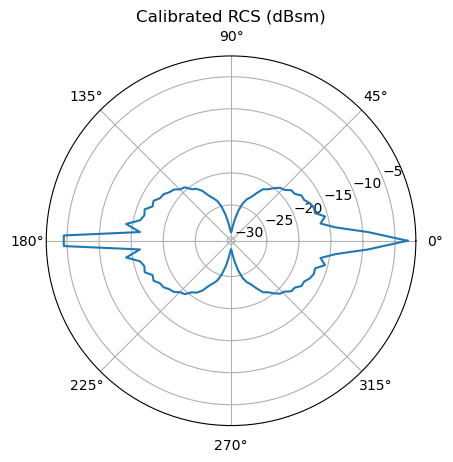
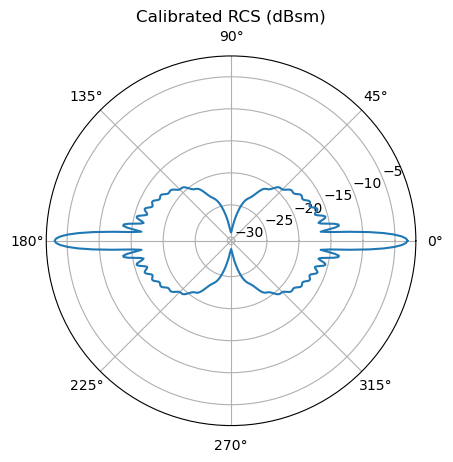
added readme and github links

diff --git a/docs/index.html b/docs/index.html
@@ -265,20 +265,20 @@ ul.task-list li input[type="checkbox"] {
   </li>  
   <li class="nav-item">
     <a class="nav-link" href="./quantum.html"> 
-<span class="menu-text">Quantum Technology</span></a>
+<span class="menu-text">Quantum</span></a>
   </li>  
   <li class="nav-item">
     <a class="nav-link" href="./defense.html"> 
-<span class="menu-text">Aerospace &amp; Defense</span></a>
+<span class="menu-text">Defense</span></a>
   </li>  
   <li class="nav-item dropdown ">
-    <a class="nav-link dropdown-toggle" href="#" id="nav-menu-independent-projects" role="link" data-bs-toggle="dropdown" aria-expanded="false">
- <span class="menu-text">Independent Projects</span>
+    <a class="nav-link dropdown-toggle" href="#" id="nav-menu-projects" role="link" data-bs-toggle="dropdown" aria-expanded="false">
+ <span class="menu-text">Projects</span>
     </a>
-    <ul class="dropdown-menu" aria-labelledby="nav-menu-independent-projects">    
+    <ul class="dropdown-menu" aria-labelledby="nav-menu-projects">    
         <li>
     <a class="dropdown-item" href="./radar.html">
- <span class="dropdown-text">Multistatic Radar Detection Performance Model</span></a>
+ <span class="dropdown-text">Multistatic Radar</span></a>
   </li>  
     </ul>
   </li>
@@ -286,10 +286,15 @@ ul.task-list li input[type="checkbox"] {
             <ul class="navbar-nav navbar-nav-scroll ms-auto">
   <li class="nav-item">
     <a class="nav-link" href="./files/AK_CV_full.pdf"> 
-<span class="menu-text">Curriculum Vitae</span></a>
+<span class="menu-text"><strong>CV</strong></span></a>
   </li>  
   <li class="nav-item compact">
     <a class="nav-link" href="https://www.linkedin.com/in/aditya-kher/"> <i class="bi bi-linkedin" role="img">
+</i> 
+<span class="menu-text"></span></a>
+  </li>  
+  <li class="nav-item compact">
+    <a class="nav-link" href="https://github.com/adityakher"> <i class="bi bi-github" role="img">
 </i> 
 <span class="menu-text"></span></a>
   </li>  
@@ -331,13 +336,17 @@ Quantum and Defense Tech</p>
   <a href="https://scholar.google.com/citations?hl=en&amp;user=0ho4P3EAAAAJ" class="about-link" rel="" target="">
      <span class="about-link-text"><i class="ai  ai-google-scholar" aria-label="google-scholar"></i> Google Scholar</span>
   </a>
+  <a href="https://github.com/adityakher" class="about-link" rel="" target="">
+    <i class="bi bi-github"></i>
+     <span class="about-link-text">GitHub</span>
+  </a>
 </div>
   </div>
   <div class="about-contents"><main class="content" id="quarto-document-content">
 
 <p>I’m an applied physicist and systems engineer with extensive experience in both the quantum technology and aerospace &amp; defense industries. I’ve spent my career on R&amp;D projects ranging from <a href="https://en.wikipedia.org/wiki/Quantum_sensor">quantum sensing</a> and <a href="https://en.wikipedia.org/wiki/Quantum_computing">computing</a> to satellite-based <a href="https://en.wikipedia.org/wiki/Remote_sensing">remote sensing</a> systems, and have contributed everywhere from early-stage research to rapid development and operational fielding. My expertise lies in applying rigorous, first-principles and systems-level thinking to problems in computational modeling, mission-critical algorithms, and advanced hardware development. I particularly enjoy mission-oriented technology projects where I can leverage deep physical principles and intuition, whether it’s early-stage R&amp;D or a product that will ship in months.</p>
 <p>I received my PhD in Applied Physics from <a href="https://www.caltech.edu/">Caltech</a>, where I was a member of the sophomore class of <a href="https://web.archive.org/web/20170705074149mp_/https://www.nasa.gov/directorates/spacetech/strg/2012_class.html">NASA Space Technology Research Fellows</a>. I shuttled between campus and the <a href="https://www.jpl.nasa.gov/">Jet Propulsion Laboratory</a> for my research, which focused on novel <a href="https://en.wikipedia.org/wiki/Superconductivity">superconducting</a> sensor and amplifier technologies for astronomy instrumentation. Prior to that, I also received an MS from Caltech, and a BS from the <a href="https://ucsd.edu/">University of California, San Diego</a>.</p>
-<p>Check out the pages describing my professional work relevant to <a href="./quantum.html">quantum</a> and <a href="./defense.html">defense</a>, as well as my independent projects including a <a href="./radar.html">radar performance model</a>. You can also take a look at my full <a href="files/AK_CV_full.pdf">CV</a>.</p>
+<p>Check out the pages describing my professional work relevant to <a href="./quantum.html">quantum</a> and <a href="./defense.html">defense</a>, as well as my independent projects including a <a href="./radar.html">radar detection performance model</a>. You can also take a look at my full <a href="files/AK_CV_full.pdf">CV</a>.</p>
 <p>When I’m not working, I’m typically reading <a href="https://www.economist.com/">The Economist</a>, watching an arthouse film at an <a href="https://revivalhub.com/">independent cinema</a>, or doing some spirited driving in the canyons of Southern California.</p>
 <p>Feel free to reach out on <a href="https://www.linkedin.com/in/aditya-kher/">LinkedIn</a> if you want to talk physics, technology, movies, or anything else!</p>
 <hr>

diff --git a/docs/radar.html b/docs/radar.html
@@ -293,20 +293,20 @@ window.Quarto = {
   </li>  
   <li class="nav-item">
     <a class="nav-link" href="./quantum.html"> 
-<span class="menu-text">Quantum Technology</span></a>
+<span class="menu-text">Quantum</span></a>
   </li>  
   <li class="nav-item">
     <a class="nav-link" href="./defense.html"> 
-<span class="menu-text">Aerospace &amp; Defense</span></a>
+<span class="menu-text">Defense</span></a>
   </li>  
   <li class="nav-item dropdown ">
-    <a class="nav-link dropdown-toggle" href="#" id="nav-menu-independent-projects" role="link" data-bs-toggle="dropdown" aria-expanded="false">
- <span class="menu-text">Independent Projects</span>
+    <a class="nav-link dropdown-toggle" href="#" id="nav-menu-projects" role="link" data-bs-toggle="dropdown" aria-expanded="false">
+ <span class="menu-text">Projects</span>
     </a>
-    <ul class="dropdown-menu" aria-labelledby="nav-menu-independent-projects">    
+    <ul class="dropdown-menu" aria-labelledby="nav-menu-projects">    
         <li>
     <a class="dropdown-item" href="./radar.html">
- <span class="dropdown-text">Multistatic Radar Detection Performance Model</span></a>
+ <span class="dropdown-text">Multistatic Radar</span></a>
   </li>  
     </ul>
   </li>
@@ -314,10 +314,15 @@ window.Quarto = {
             <ul class="navbar-nav navbar-nav-scroll ms-auto">
   <li class="nav-item">
     <a class="nav-link" href="./files/AK_CV_full.pdf"> 
-<span class="menu-text">Curriculum Vitae</span></a>
+<span class="menu-text"><strong>CV</strong></span></a>
   </li>  
   <li class="nav-item compact">
     <a class="nav-link" href="https://www.linkedin.com/in/aditya-kher/"> <i class="bi bi-linkedin" role="img">
+</i> 
+<span class="menu-text"></span></a>
+  </li>  
+  <li class="nav-item compact">
+    <a class="nav-link" href="https://github.com/adityakher"> <i class="bi bi-github" role="img">
 </i> 
 <span class="menu-text"></span></a>
   </li>  
@@ -370,6 +375,7 @@ window.Quarto = {
 
 
 <p>This project develops a Python framework for evaluating radar sensor performance against small uncrewed aerial systems (UAS), emphasizing the geometric advantages of multistatic (distributed) configurations over monostatic baselines. The framework implements monostatic and bistatic radar range equations, Shnidman’s detection probability model with Swerling target fluctuation, and an aspect-dependent target radar cross-section model built from composite canonical scatterers and calibrated to published Ku-band small-quadcopter measurements. Outputs include 2D probability-of-detection contours quantifying performance differences between a single monostatic radar and an <em>N</em>-node distributed configuration against low-RCS aspect-dependent targets. The study is motivated by the operational importance of counter-UAS radar and the intuition that geometric diversity in distributed sensor networks provides detection coverage that monostatic systems cannot match, particularly against targets with strong aspect-sensitive RCS suppression.</p>
+<p>Project code and reproduction notebook following this study are <a href="https://github.com/adityakher/multistatic-radar">available</a>.</p>
 <section id="motivation" class="level3">
 <h3 class="anchored" data-anchor-id="motivation">Motivation</h3>
 <p>Small commercial <a href="https://en.wikipedia.org/wiki/Unmanned_aerial_vehicle">UAS</a> pose an asymmetric challenge for <a href="https://en.wikipedia.org/wiki/Radar">radar</a> surveillance: their <a href="https://en.wikipedia.org/wiki/Radar_cross_section">RCS</a> is low, strongly aspect-dependent, and concentrated in particular directions where monostatic systems can be particularly weak. Distributed (multistatic) radar architectures address this through geometric diversity — different <a href="https://en.wikipedia.org/wiki/Transmitter">transmitter</a>-<a href="https://en.wikipedia.org/wiki/Radio_receiver">receiver</a> pairs view the target from different aspects simultaneously, exploiting <a href="https://en.wikipedia.org/wiki/Bistatic_radar">bistatic</a> RCS behaviors (including forward-scatter enhancement) that monostatic systems cannot access. This project develops a Python framework for quantifying that geometric advantage in detection performance.</p>
@@ -488,7 +494,7 @@ Figure&nbsp;4: Probability-of-detection contours for a target headed in the +<em
 <h3 class="anchored" data-anchor-id="discussion">Discussion</h3>
 <p>We have shown that target detection can be significantly enhanced by using a distributed <em>N</em>-node radar architecture in comparison with monostatic and bistatic paradigms, due to SNR enhancement from forward-scattering and from summing SNRs from each bistatic pair for the combined system SNR. We have not discussed target localization in this project. In fact, bistatic configurations degrade target localization relative to monostatic — the target position resulting from a detection can be anywhere on an ellipse with foci at the two antenna locations. However, multi-node networks with <em>N</em> ≥ 3 can triangulate between different pairwise detections, finding intersections between multiple bistatic ellipses to localize targets. Thus, the power of multistatic radar is not limited to detection enhancement.</p>
 <p>As mentioned above, these advantages are only possible with centralized processing. It also requires very precise pulse timing and synchronization between nodes. These requirements — centralized fusion across coherent, time-synchronized nodes — are the defining design constraints of coherent distributed radar networks currently being developed for counter-UAS applications.</p>
-<p>In addition to these challenges, there are a number of other limitations we have not considered. We have not modeled clutter, atmospheric effects, or terrain — our model is on two-dimensional Euclidean space. Our radar cross-section model is also greatly simplified and uses assumptions including the perfect electrical conductor and physical optics approximations that may not be valid. An RCS model derived from measurements and/or a high-fidelity electromagnetics code would yield more accurate results.</p>
+<p>In addition to these challenges, there are a number of other limitations we have not considered. We have not modeled clutter, atmospheric effects, or terrain — our model is on two-dimensional Euclidean space. Our radar cross-section model is also greatly simplified and uses assumptions including the perfect electrical conductor and physical optics approximations that may not be valid. An RCS model derived from measurements and/or a high-fidelity electromagnetics solver would yield more accurate results.</p>
 </section>
 <section id="follow-on-directions" class="level3">
 <h3 class="anchored" data-anchor-id="follow-on-directions">Follow-On Directions</h3>

diff --git a/docs/defense.html b/docs/defense.html
@@ -264,20 +264,20 @@ ul.task-list li input[type="checkbox"] {
   </li>  
   <li class="nav-item">
     <a class="nav-link" href="./quantum.html"> 
-<span class="menu-text">Quantum Technology</span></a>
+<span class="menu-text">Quantum</span></a>
   </li>  
   <li class="nav-item">
     <a class="nav-link active" href="./defense.html" aria-current="page"> 
-<span class="menu-text">Aerospace &amp; Defense</span></a>
+<span class="menu-text">Defense</span></a>
   </li>  
   <li class="nav-item dropdown ">
-    <a class="nav-link dropdown-toggle" href="#" id="nav-menu-independent-projects" role="link" data-bs-toggle="dropdown" aria-expanded="false">
- <span class="menu-text">Independent Projects</span>
+    <a class="nav-link dropdown-toggle" href="#" id="nav-menu-projects" role="link" data-bs-toggle="dropdown" aria-expanded="false">
+ <span class="menu-text">Projects</span>
     </a>
-    <ul class="dropdown-menu" aria-labelledby="nav-menu-independent-projects">    
+    <ul class="dropdown-menu" aria-labelledby="nav-menu-projects">    
         <li>
     <a class="dropdown-item" href="./radar.html">
- <span class="dropdown-text">Multistatic Radar Detection Performance Model</span></a>
+ <span class="dropdown-text">Multistatic Radar</span></a>
   </li>  
     </ul>
   </li>
@@ -285,10 +285,15 @@ ul.task-list li input[type="checkbox"] {
             <ul class="navbar-nav navbar-nav-scroll ms-auto">
   <li class="nav-item">
     <a class="nav-link" href="./files/AK_CV_full.pdf"> 
-<span class="menu-text">Curriculum Vitae</span></a>
+<span class="menu-text"><strong>CV</strong></span></a>
   </li>  
   <li class="nav-item compact">
     <a class="nav-link" href="https://www.linkedin.com/in/aditya-kher/"> <i class="bi bi-linkedin" role="img">
+</i> 
+<span class="menu-text"></span></a>
+  </li>  
+  <li class="nav-item compact">
+    <a class="nav-link" href="https://github.com/adityakher"> <i class="bi bi-github" role="img">
 </i> 
 <span class="menu-text"></span></a>
   </li>  

diff --git a/README.md b/README.md
@@ -1,0 +1,5 @@
+# adityakher.github.io
+
+Source for my personal website: [adityakher.github.io](https://adityakher.com)
+
+Built with [Quarto](https://quarto.org/), deployed via GitHub Pages.

diff --git a/docs/radar.llms.md b/docs/radar.llms.md
@@ -2,6 +2,8 @@
 
 This project develops a Python framework for evaluating radar sensor performance against small uncrewed aerial systems (UAS), emphasizing the geometric advantages of multistatic (distributed) configurations over monostatic baselines. The framework implements monostatic and bistatic radar range equations, Shnidman’s detection probability model with Swerling target fluctuation, and an aspect-dependent target radar cross-section model built from composite canonical scatterers and calibrated to published Ku-band small-quadcopter measurements. Outputs include 2D probability-of-detection contours quantifying performance differences between a single monostatic radar and an *N*-node distributed configuration against low-RCS aspect-dependent targets. The study is motivated by the operational importance of counter-UAS radar and the intuition that geometric diversity in distributed sensor networks provides detection coverage that monostatic systems cannot match, particularly against targets with strong aspect-sensitive RCS suppression.
 
+Project code and reproduction notebook following this study are [available](https://github.com/adityakher/multistatic-radar).
+
 ### Motivation
 
 Small commercial [UAS](https://en.wikipedia.org/wiki/Unmanned_aerial_vehicle) pose an asymmetric challenge for [radar](https://en.wikipedia.org/wiki/Radar) surveillance: their [RCS](https://en.wikipedia.org/wiki/Radar_cross_section) is low, strongly aspect-dependent, and concentrated in particular directions where monostatic systems can be particularly weak. Distributed (multistatic) radar architectures address this through geometric diversity — different [transmitter](https://en.wikipedia.org/wiki/Transmitter)-[receiver](https://en.wikipedia.org/wiki/Radio_receiver) pairs view the target from different aspects simultaneously, exploiting [bistatic](https://en.wikipedia.org/wiki/Bistatic_radar) RCS behaviors (including forward-scatter enhancement) that monostatic systems cannot access. This project develops a Python framework for quantifying that geometric advantage in detection performance.
@@ -72,7 +74,7 @@ We have shown that target detection can be significantly enhanced by using a dis
 
 As mentioned above, these advantages are only possible with centralized processing. It also requires very precise pulse timing and synchronization between nodes. These requirements — centralized fusion across coherent, time-synchronized nodes — are the defining design constraints of coherent distributed radar networks currently being developed for counter-UAS applications.
 
-In addition to these challenges, there are a number of other limitations we have not considered. We have not modeled clutter, atmospheric effects, or terrain — our model is on two-dimensional Euclidean space. Our radar cross-section model is also greatly simplified and uses assumptions including the perfect electrical conductor and physical optics approximations that may not be valid. An RCS model derived from measurements and/or a high-fidelity electromagnetics code would yield more accurate results.
+In addition to these challenges, there are a number of other limitations we have not considered. We have not modeled clutter, atmospheric effects, or terrain — our model is on two-dimensional Euclidean space. Our radar cross-section model is also greatly simplified and uses assumptions including the perfect electrical conductor and physical optics approximations that may not be valid. An RCS model derived from measurements and/or a high-fidelity electromagnetics solver would yield more accurate results.
 
 ### Follow-On Directions
 

diff --git a/docs/index.llms.md b/docs/index.llms.md
@@ -2,7 +2,7 @@ I’m an applied physicist and systems engineer with extensive experience in bot
 
 I received my PhD in Applied Physics from [Caltech](https://www.caltech.edu/), where I was a member of the sophomore class of [NASA Space Technology Research Fellows](https://web.archive.org/web/20170705074149mp_/https://www.nasa.gov/directorates/spacetech/strg/2012_class.html). I shuttled between campus and the [Jet Propulsion Laboratory](https://www.jpl.nasa.gov/) for my research, which focused on novel [superconducting](https://en.wikipedia.org/wiki/Superconductivity) sensor and amplifier technologies for astronomy instrumentation. Prior to that, I also received an MS from Caltech, and a BS from the [University of California, San Diego](https://ucsd.edu/).
 
-Check out the pages describing my professional work relevant to [quantum](quantum.llms.md) and [defense](defense.llms.md), as well as my independent projects including a [radar performance model](radar.llms.md). You can also take a look at my full [CV](files/AK_CV_full.pdf).
+Check out the pages describing my professional work relevant to [quantum](quantum.llms.md) and [defense](defense.llms.md), as well as my independent projects including a [radar detection performance model](radar.llms.md). You can also take a look at my full [CV](files/AK_CV_full.pdf).
 
 When I’m not working, I’m typically reading [The Economist](https://www.economist.com/), watching an arthouse film at an [independent cinema](https://revivalhub.com/), or doing some spirited driving in the canyons of Southern California.
 